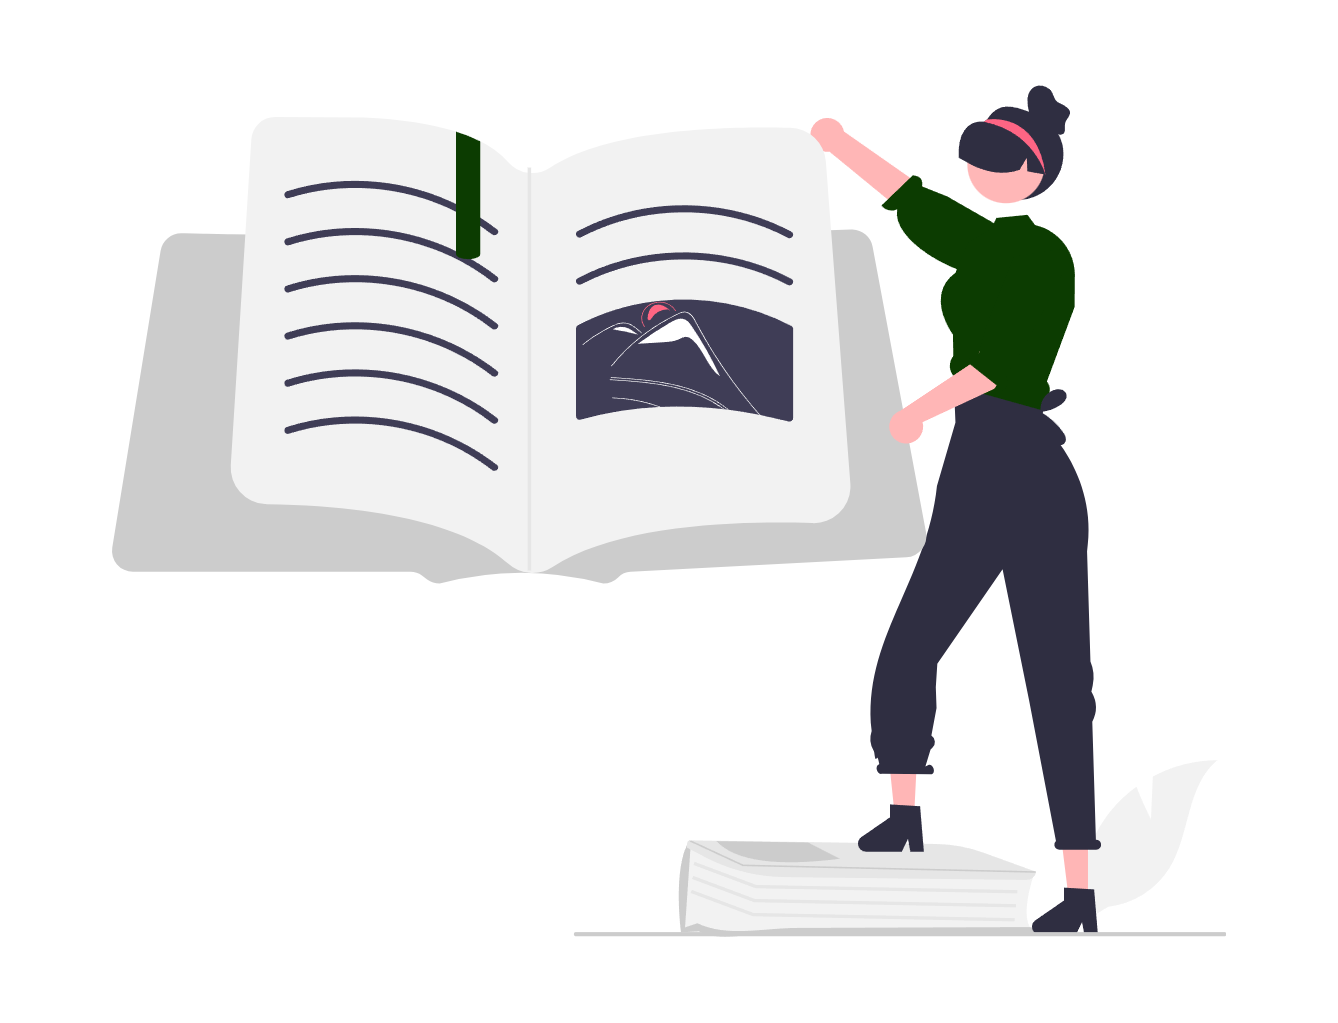
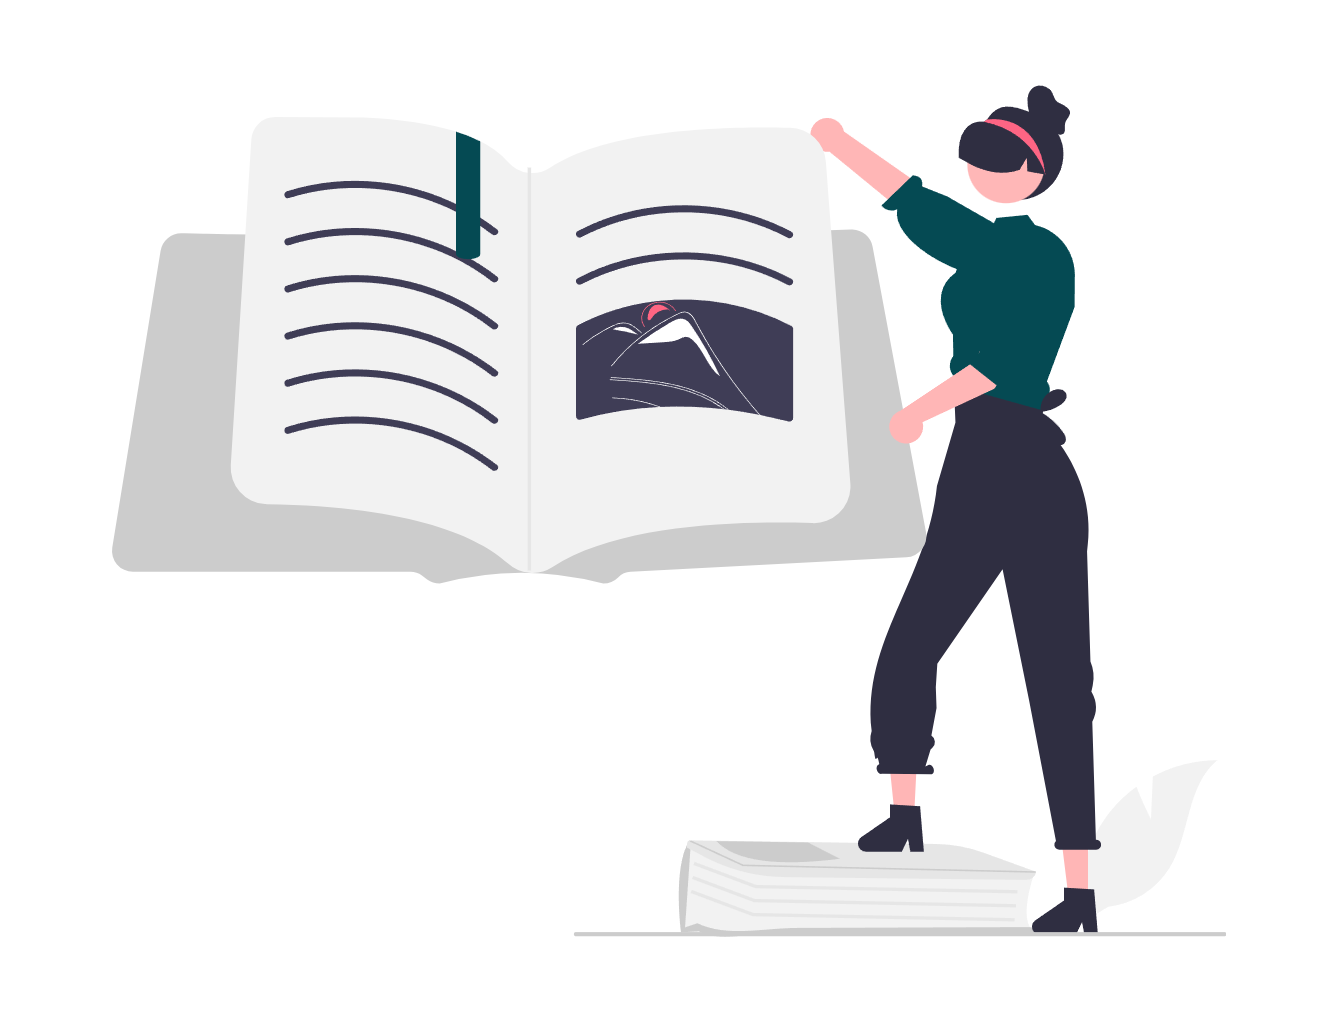
Perubahan minor

Changed region(s): [[0.6435, 0.1515, 0.8274, 0.3939], [0.3371, 0.1212, 0.3677, 0.2727]]

diff --git a/resources/views/layouts/app.blade.php b/resources/views/layouts/app.blade.php
@@ -17,18 +17,19 @@
 }
 
         .navbar, .footer {
-            background-color: #90C36F !important;
+            background-color: #ffff !important;
         }
         .navbar .navbar-brand{
-            color: white !important;
+            color: #115E68ff !important;
             margin: 0 10px;
         }
         .navbar .nav-link {
-            color: white !important;
+            color: #115E68ff !important;
             margin: 0 10px;
         }
         .footer {
-
+            background-color: #115E68ff !important;
+            color: #ffff;
             bottom: 0;
             width: 100%;
         }
@@ -38,7 +39,7 @@
     <nav class="navbar navbar-expand-lg navbar-light">
         <div class="container">
             <a class="navbar-brand d-flex align-items-center" href="/">
-                <img src="https://smart.sdsi.co.id/wp-content/uploads/sites/5/2023/01/LOGO-PDAM-copy.png" alt="Logo Perpustakaan" style="width: 8%; margin-right: 10px;">
+                <img src="{{ asset('images/pln_logo.jpeg') }}" alt="Logo Perusahaan" style="width: 8%; margin-right: 10px;">
                 Perpustakaan
             </a>
             <button class="navbar-toggler" type="button" data-bs-toggle="collapse" data-bs-target="#navbarNav">

diff --git a/resources/views/books/bookDetail.blade.php b/resources/views/books/bookDetail.blade.php
@@ -13,7 +13,7 @@
     @endif
 
     <div class="card shadow-lg">
-        <div class="card-header text-white text-center" style="background-color: #90C36F !important;">
+        <div class="card-header text-white text-center" style="background-color: #115E68ff !important;">
             <h4 class="mb-0">Detail Buku</h4>
         </div>
         <div class="card-body">
@@ -40,7 +40,7 @@
 
                     <div class="mt-4">
                         @guest
-                            <a href="{{ route('login') }}" class="btn btn-lg w-100 text-white " style="background-color: #4B8F29; border-radius: 25px;">Login untuk Pinjam Buku</a>
+                            <a href="{{ route('login') }}" class="btn btn-lg w-100 text-white " style="background-color: #054A53ff; border-radius: 25px;">Login untuk Pinjam Buku</a>
                         @elseif(auth()->user()->role == 'anggota' || auth()->user()->role == 'pengguna_umum')
                             @if ($isBorrowed)
                                 <button class="btn btn-secondary btn-lg w-100" disabled>📌 Buku ini sedang dipinjam</button>

diff --git a/resources/views/home.blade.php b/resources/views/home.blade.php
@@ -5,12 +5,12 @@
       <div class="row gy-5" data-aos="fade-in">
         <div class="col-lg-6 order-2 order-lg-1 d-flex flex-column justify-content-center text-center text-lg-start">
           <h2>Selamat Datang!</h2>
-          <p>Selamat datang di Aplikasi Perpustakaan PT PLTA.
+          <p>Selamat datang di Aplikasi Perpustakaan PT PLN INDONESIA POWER.
             Dengan aplikasi ini, Anda dapat mencari buku, melakukan peminjaman, mengembalikan buku, serta melihat riwayat peminjaman Anda.
             Silakan masuk dengan akun yang telah terdaftar untuk menggunakan layanan perpustakaan.
           </p>
           <a href="{{ route('books.allBooks') }}">
-             <button class="btn" style="background-color: #0C3C01; color: white;">Cari Buku</button>
+             <button class="btn" style="background-color: #054A53ff; color: white;">Cari Buku</button>
           </a>
         </div>
         <div class="col-lg-6 order-1 order-lg-2">

diff --git a/resources/views/books/allBooks.blade.php b/resources/views/books/allBooks.blade.php
@@ -26,7 +26,7 @@
                         <p class="card-text"><strong>Jenis:</strong> {{ $book->jenis_buku }}</p>
                         <p class="card-text"><strong>Penerbit:</strong> {{ $book->penerbit }}</p>
                         <p class="card-text"><strong>Rak:</strong> {{ $book->rak_buku }}</p>
-                        <a href="/books/{{ $book->id }}" class="btn btn-sm" style="background-color: #0C3C01; color: white;">Lihat Detail</a>
+                        <a href="/books/{{ $book->id }}" class="btn btn-sm" style="background-color: #054A53ff; color: white;">Lihat Detail</a>
                     </div>
                 </div>
             </div>

diff --git a/resources/views/auth/login.blade.php b/resources/views/auth/login.blade.php
@@ -37,7 +37,7 @@
                     <label class="form-label fw-semibold">Password</label>
                     <input type="password" name="password" class="form-control rounded-3" placeholder="Masukkan Password" required>
                 </div>
-                <button type="submit" class="btn w-100 text-white fw-semibold" style="background-color: #4B8F29; border-radius: 25px;">
+                <button type="submit" class="btn w-100 text-white fw-semibold" style="background-color: #054A53ff; border-radius: 25px;">
                     Login
                 </button>
             </form>

diff --git a/resources/views/auth/register.blade.php b/resources/views/auth/register.blade.php
@@ -47,7 +47,7 @@
                         <option value="PLTA Batang Agam">PLTA Batang Agam</option>
                     </select>
                 </div>
-                <button type="submit" class="btn w-100 text-white fw-semibold" style="background-color: #4B8F29; border-radius: 25px;">
+                <button type="submit" class="btn w-100 text-white fw-semibold" style="background-color: #054A53ff; border-radius: 25px;">
                     Register
                 </button>
             </form>

diff --git a/resources/views/auth/profile.blade.php b/resources/views/auth/profile.blade.php
@@ -7,7 +7,7 @@
     <div class="row justify-content-center">
         <div class="col-md-6">
             <div class="card shadow-lg">
-                <div class="card-header text-white text-center" style="background-color: #90C36F !important;">
+                <div class="card-header text-white text-center" style="background-color: #115E68ff !important;">
                     <h4>Profil Pengguna</h4>
                 </div>
                 <div class="card-body">

diff --git a/resources/views/admin/users/index.blade.php b/resources/views/admin/users/index.blade.php
@@ -5,7 +5,7 @@
 @section('content')
 <div class="container mt-4">
     <div class="card shadow-lg">
-        <div class="card-header text-white" style="background-color: #90C36F !important;">
+        <div class="card-header text-white" style="background-color: #115E68ff !important;">
             <h4 class="mb-0 text-center">Manajemen User</h4>
         </div>
         <div class="card-body">

diff --git a/resources/views/admin/users/create.blade.php b/resources/views/admin/users/create.blade.php
@@ -5,7 +5,7 @@
 @section('content')
 <div class="container mt-4">
     <div class="card shadow-lg">
-        <div class="card-header text-white" style="background-color: #90C36F !important;">
+        <div class="card-header text-white" style="background-color: #115E68ff !important;">
             <h4 class="mb-0 text-center">Tambah User</h4>
         </div>
         <div class="card-body">

diff --git a/resources/views/admin/users/edit.blade.php b/resources/views/admin/users/edit.blade.php
@@ -5,7 +5,7 @@
 @section('content')
 <div class="container mt-4">
     <div class="card shadow-lg">
-        <div class="card-header text-white" style="background-color: #90C36F !important;">
+        <div class="card-header text-white" style="background-color: #115E68ff !important;">
             <h4 class="mb-0 text-center">Edit User</h4>
         </div>
         <div class="card-body">
